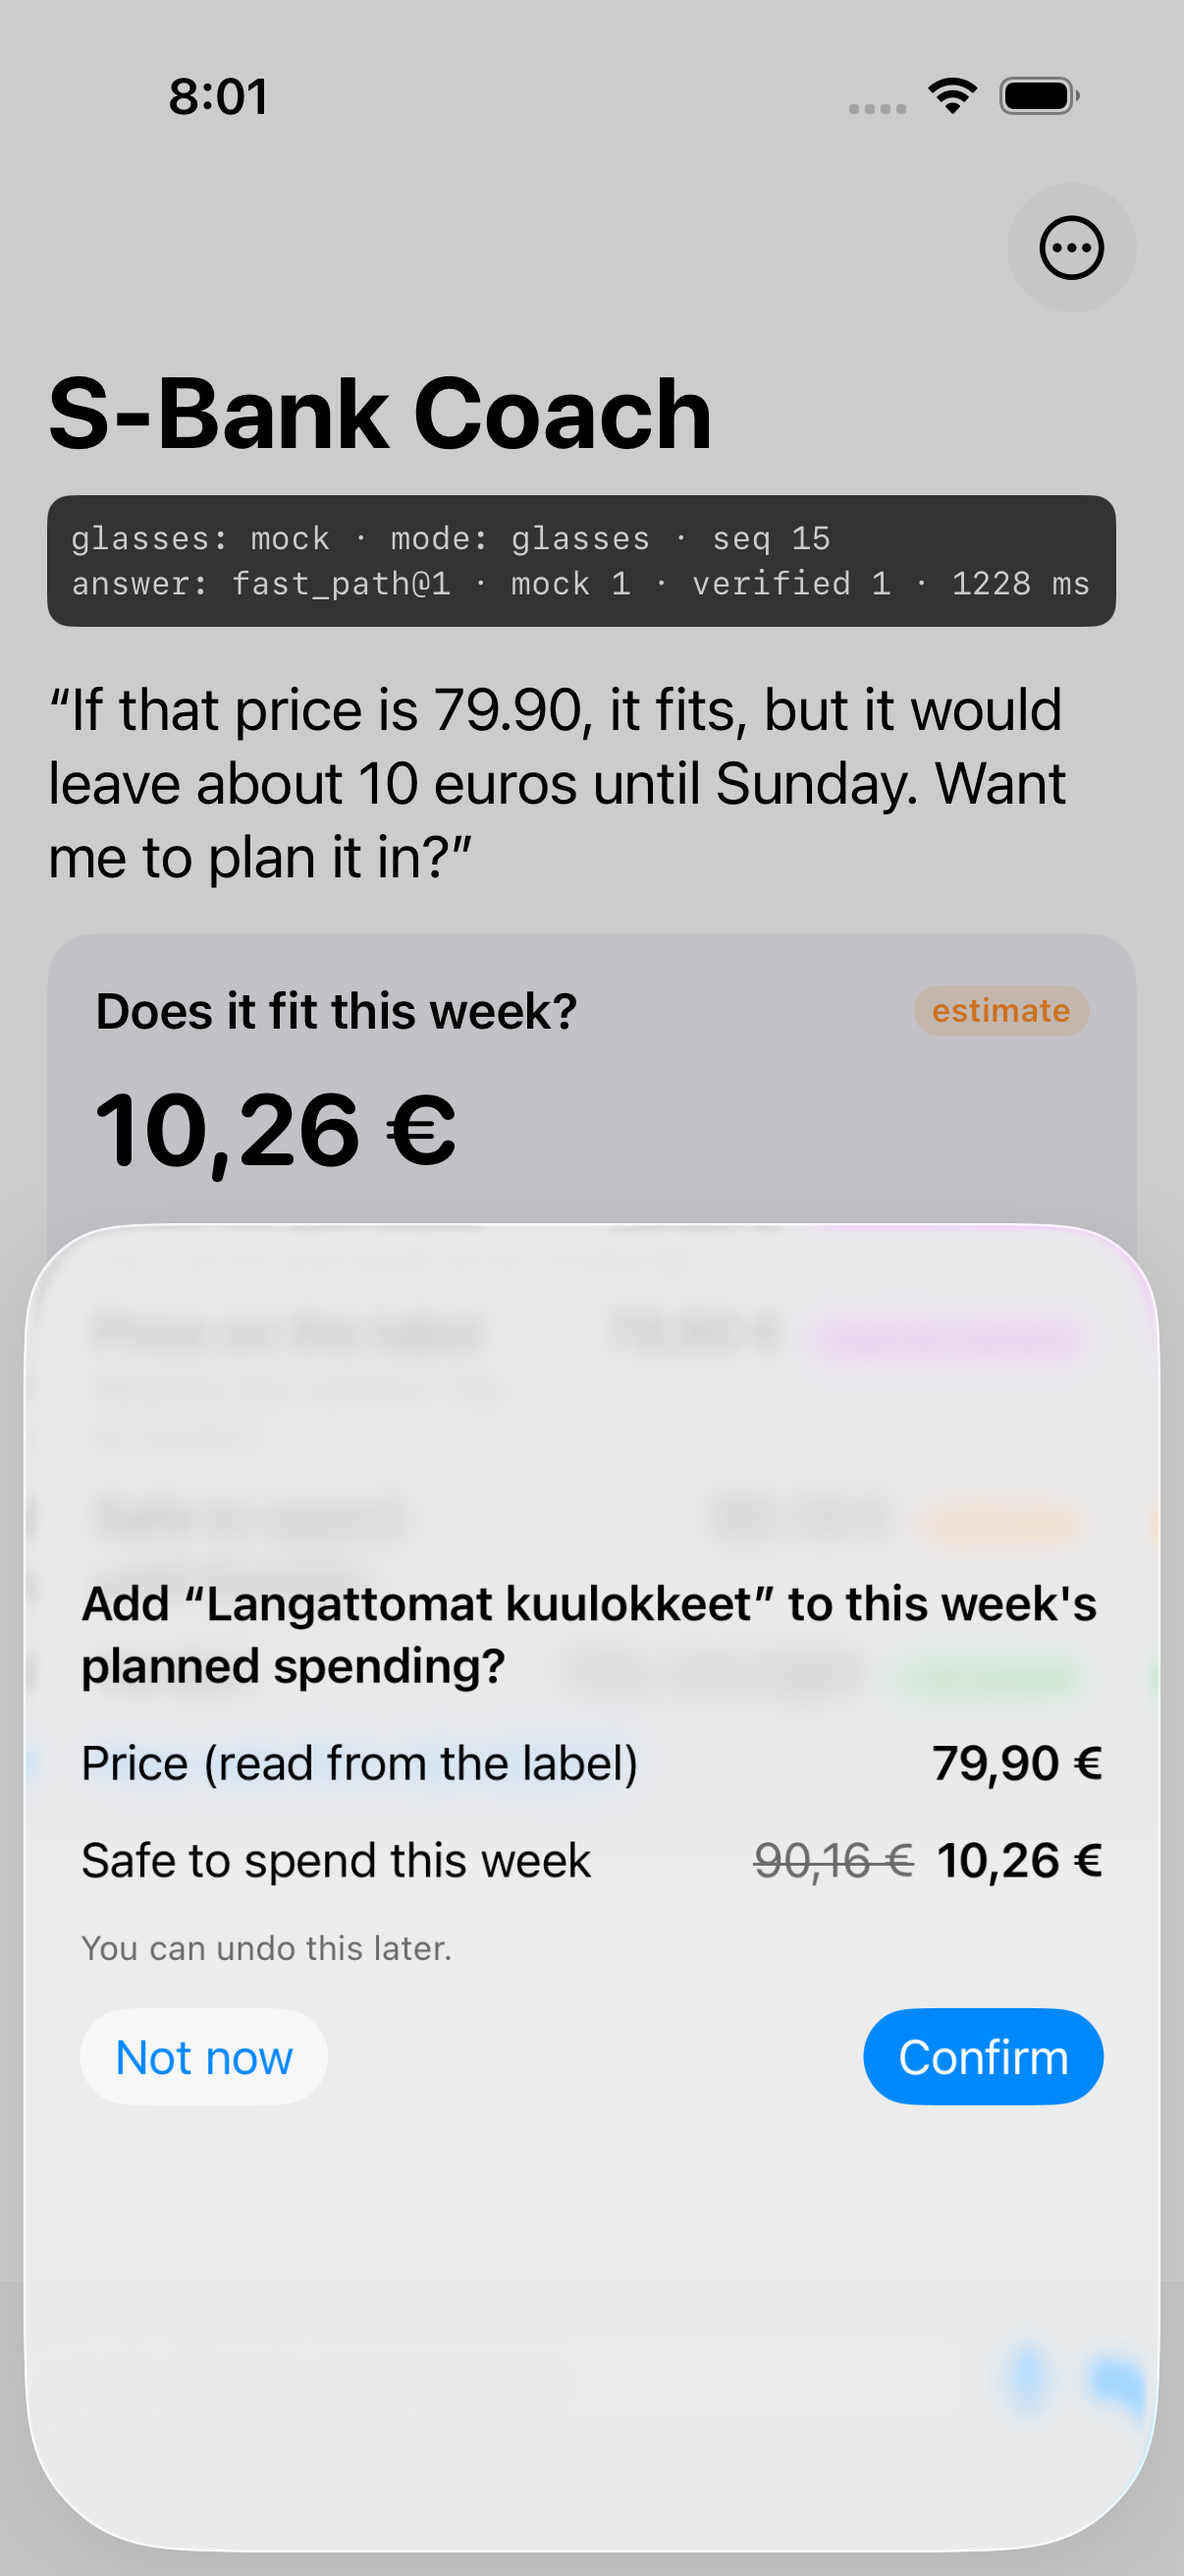
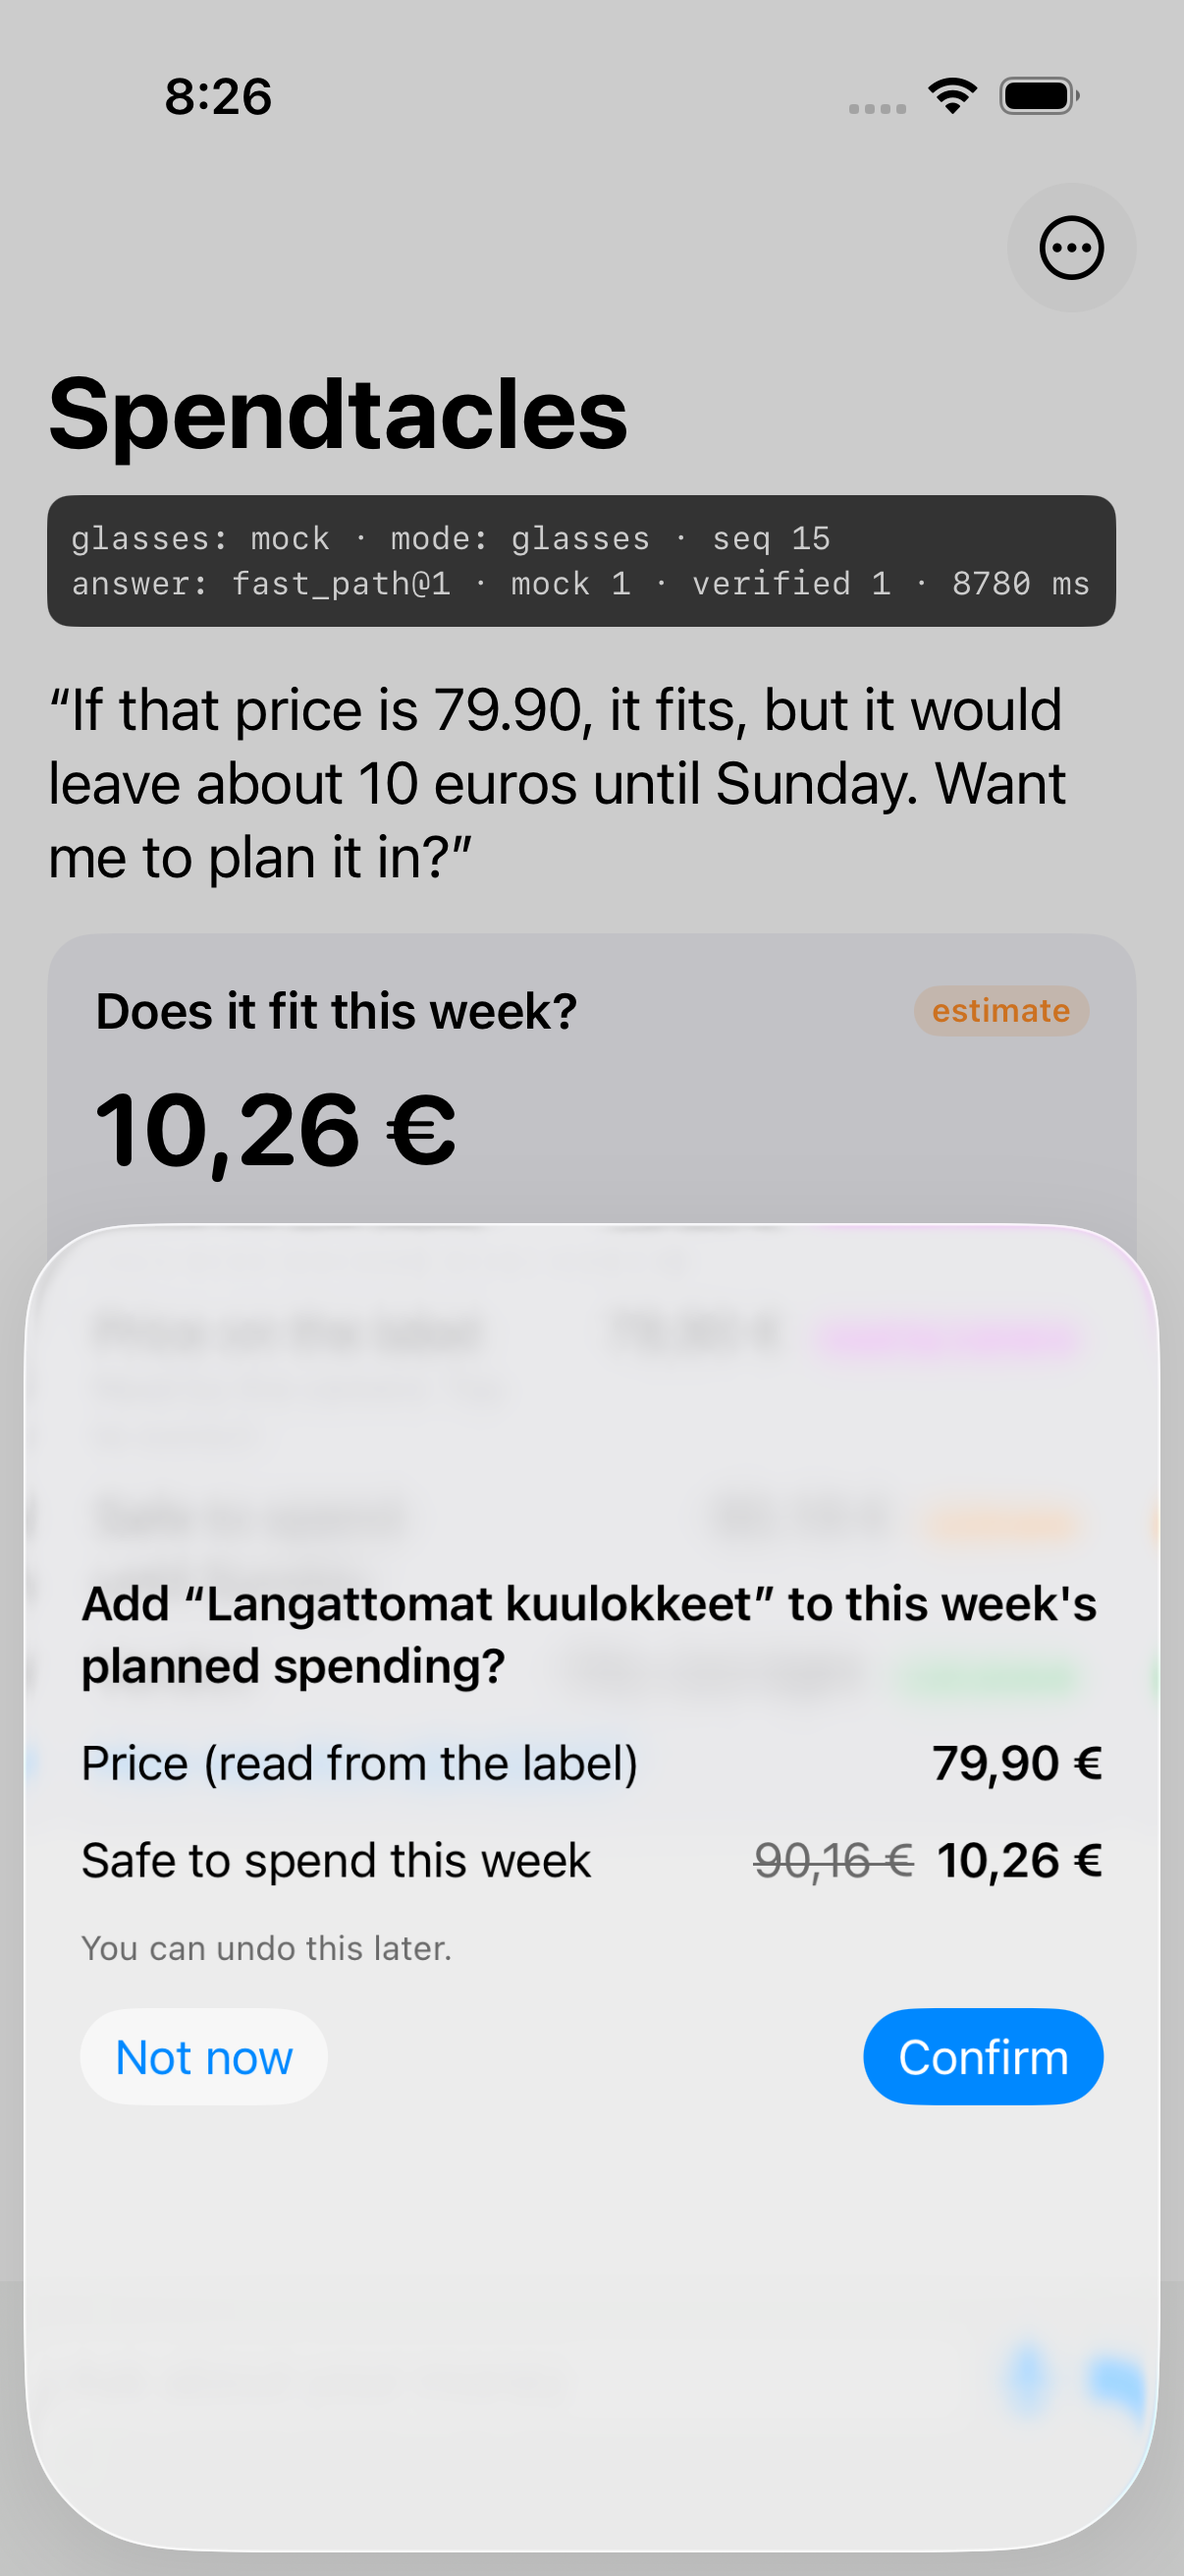
docs(readme): screenshots of the renamed app
New screenshots from CI run 43636707196 (UI test, iOS Simulator + Meta
Mock Device Kit) with the app titled Spendtacles (DEC-026). Removes the
note that the screenshots predated the rename.

Changed region(s): [[0.092, 0.1236, 0.6136, 0.1854], [0.1534, 0.0309, 0.2454, 0.0618], [0.7977, 0.2162, 0.8284, 0.2471]]

diff --git a/README.md b/README.md
@@ -23,8 +23,6 @@ These screenshots come from CI, not a mock-up. The UI test runs the real iOS app
   </tr>
 </table>
 
-These screenshots were taken before the app was renamed, so their title still reads "S-Bank Coach". The app now shows "Spendtacles" (DEC-026), and the next CI run will refresh them.
-
 The dark strip under the title (`glasses: mock · mode: glasses · seq …`) is the debug overlay. It is there on purpose: **mocks are never silent** (DEC-005), so the app always shows when simulated glasses or fixture data are in play.
 
 ## Built to be trusted
